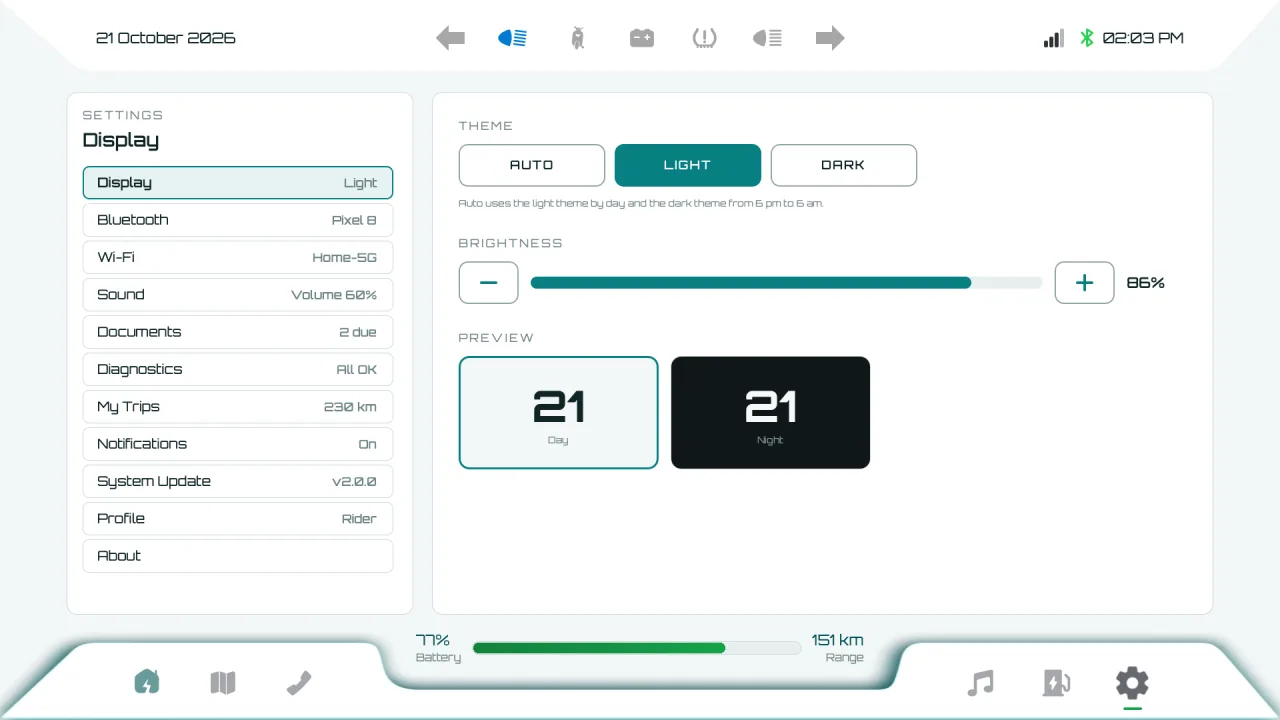
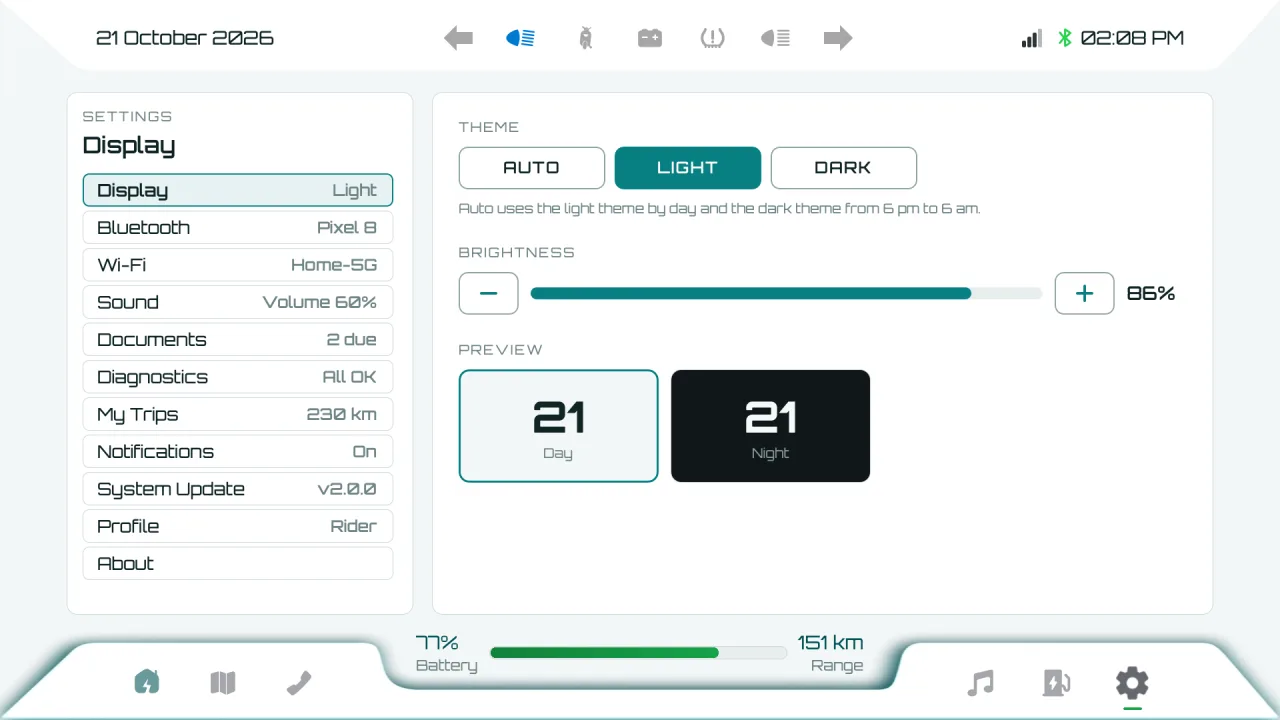
Sharp text at any panel size
Labels forced native rendering, which rasterises glyphs at 1920 x 1080 and then
scales the bitmap down to the panel: letters came out broken. They now use
distance-field rendering and unhinted glyphs. The type scale is raised so
nothing falls below about 12 px on a 1024 x 600 panel, and the board service
sets QT_SCALE_FACTOR so the panel renders text natively at its own pixels.

diff --git a/Theme/Typography.qml b/Theme/Typography.qml
@@ -31,12 +31,14 @@ QtObject {
                                   && mediumLoader.status === FontLoader.Ready
                                   && boldLoader.status === FontLoader.Ready
 
-    readonly property int display: 32
-    readonly property int titleLarge: 28
-    readonly property int title: 24
-    readonly property int heading: 22
-    readonly property int bodyLarge: 20
-    readonly property int body: 18
-    readonly property int bodySmall: 16
-    readonly property int caption: 14
+    // Sized for a 1920 x 1080 canvas shown on a 1024 x 600 panel: about half size,
+    // so nothing here may drop below ~12 px on the panel.
+    readonly property int display: 40
+    readonly property int titleLarge: 34
+    readonly property int title: 30
+    readonly property int heading: 28
+    readonly property int bodyLarge: 26
+    readonly property int body: 24
+    readonly property int bodySmall: 22
+    readonly property int caption: 20
 }

diff --git a/Component/PrefsLabel.qml b/Component/PrefsLabel.qml
@@ -17,7 +17,9 @@ Label {
     font.family: !isBold ? Style.regularFontFamily : largeFigure ? Style.boldFontFamily : Style.mediumFontFamily
     font.weight: !isBold ? Font.Normal : largeFigure ? Font.Bold : Font.Medium
     wrapMode: Text.WrapAtWordBoundaryOrAnywhere
-    renderType: Text.NativeRendering
+    // The canvas is scaled to the panel: distance-field text stays sharp at any
+    // scale, where native glyphs are rasterised at 1920 x 1080 and then resampled.
+    renderType: Text.QtRendering
 
     Behavior on color {
         ColorAnimation { duration: Style.motion.normal }

diff --git a/Component/Caption.qml b/Component/Caption.qml
@@ -7,8 +7,8 @@ Label {
     property bool accent: false
 
     font.family: Style.regularFontFamily
-    font.pixelSize: 17
-    font.letterSpacing: 3
+    font.pixelSize: 20
+    font.letterSpacing: 2.5
     font.capitalization: Font.AllUppercase
     color: accent ? Style.accent : Style.textMuted
 }

diff --git a/main.cpp b/main.cpp
@@ -53,6 +53,8 @@ void loadFonts(QGuiApplication &app)
         return;
     QFont applicationFont(families.constFirst());
     applicationFont.setStyleStrategy(QFont::PreferAntialias);
+    // Hinting snaps glyphs to the 1920 x 1080 pixel grid, which the panel scale then breaks.
+    applicationFont.setHintingPreference(QFont::PreferNoHinting);
     app.setFont(applicationFont);
 }
 
